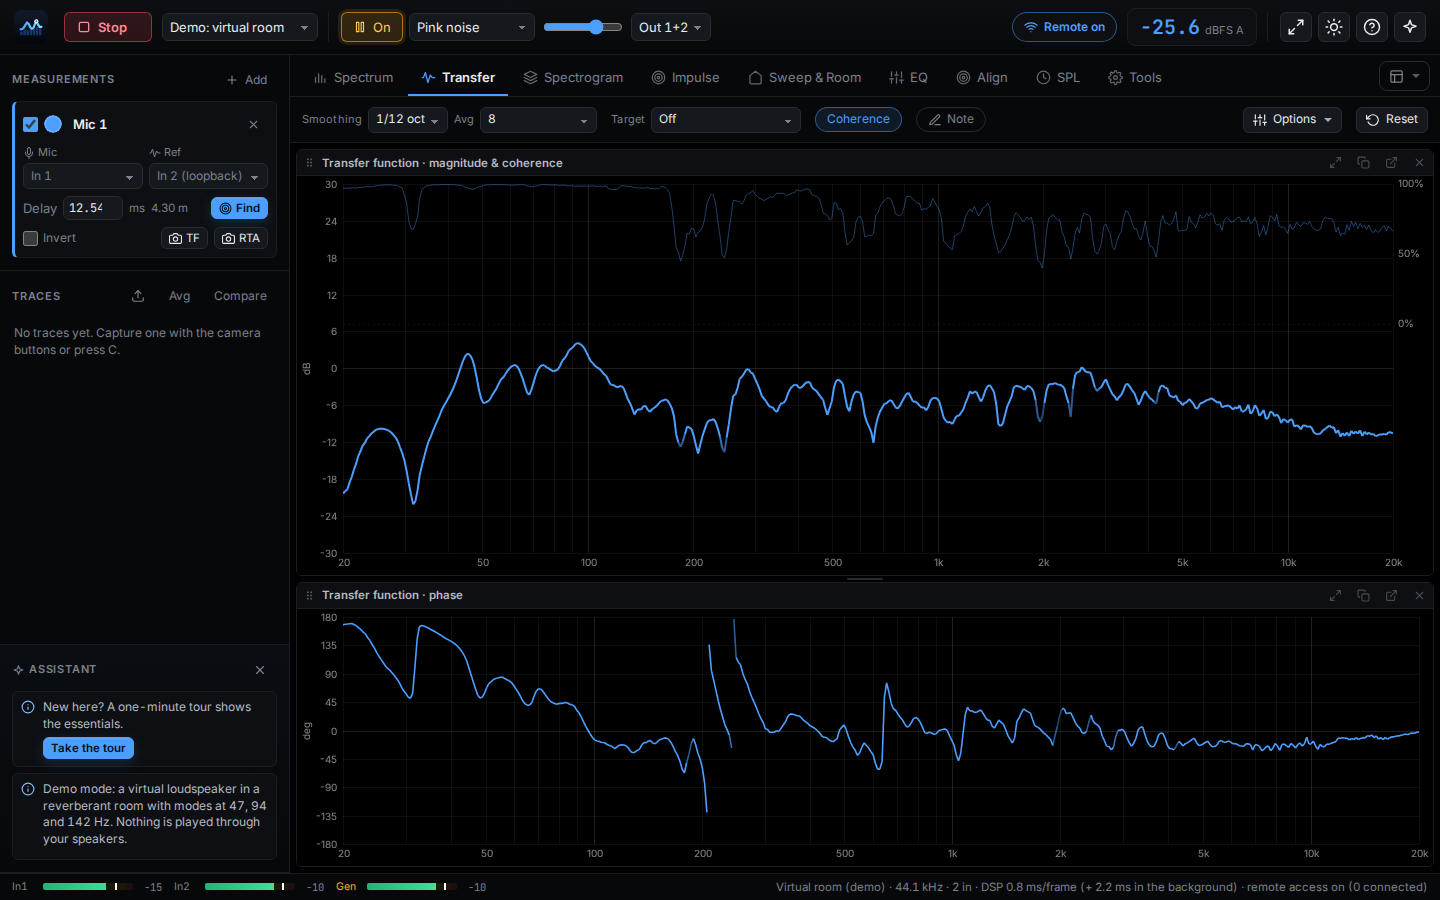
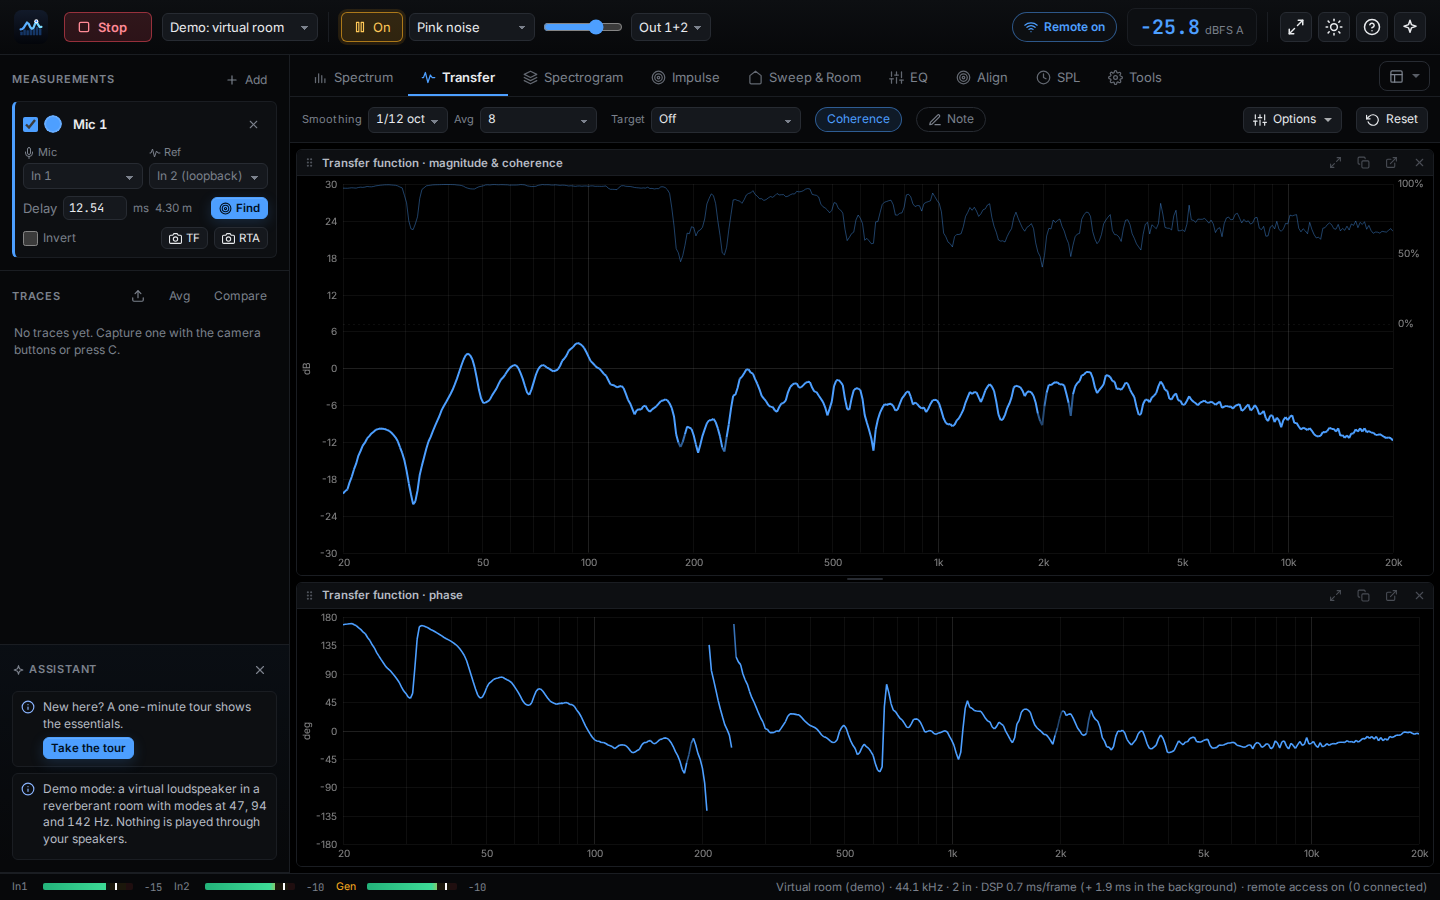
Delay box back to its full width (the Find button wraps instead); screenshots
Claude-Session: https://claude.ai/code/session_01DUSAq299NMiKPL5ASP4zkU

diff --git a/src/styles/app.css b/src/styles/app.css
@@ -532,7 +532,7 @@ input.name:hover {
   flex-shrink: 0;
 }
 .delay-row input.num {
-  width: 60px;
+  width: 64px;
   min-height: 24px;
   padding: 2px 5px;
 }
